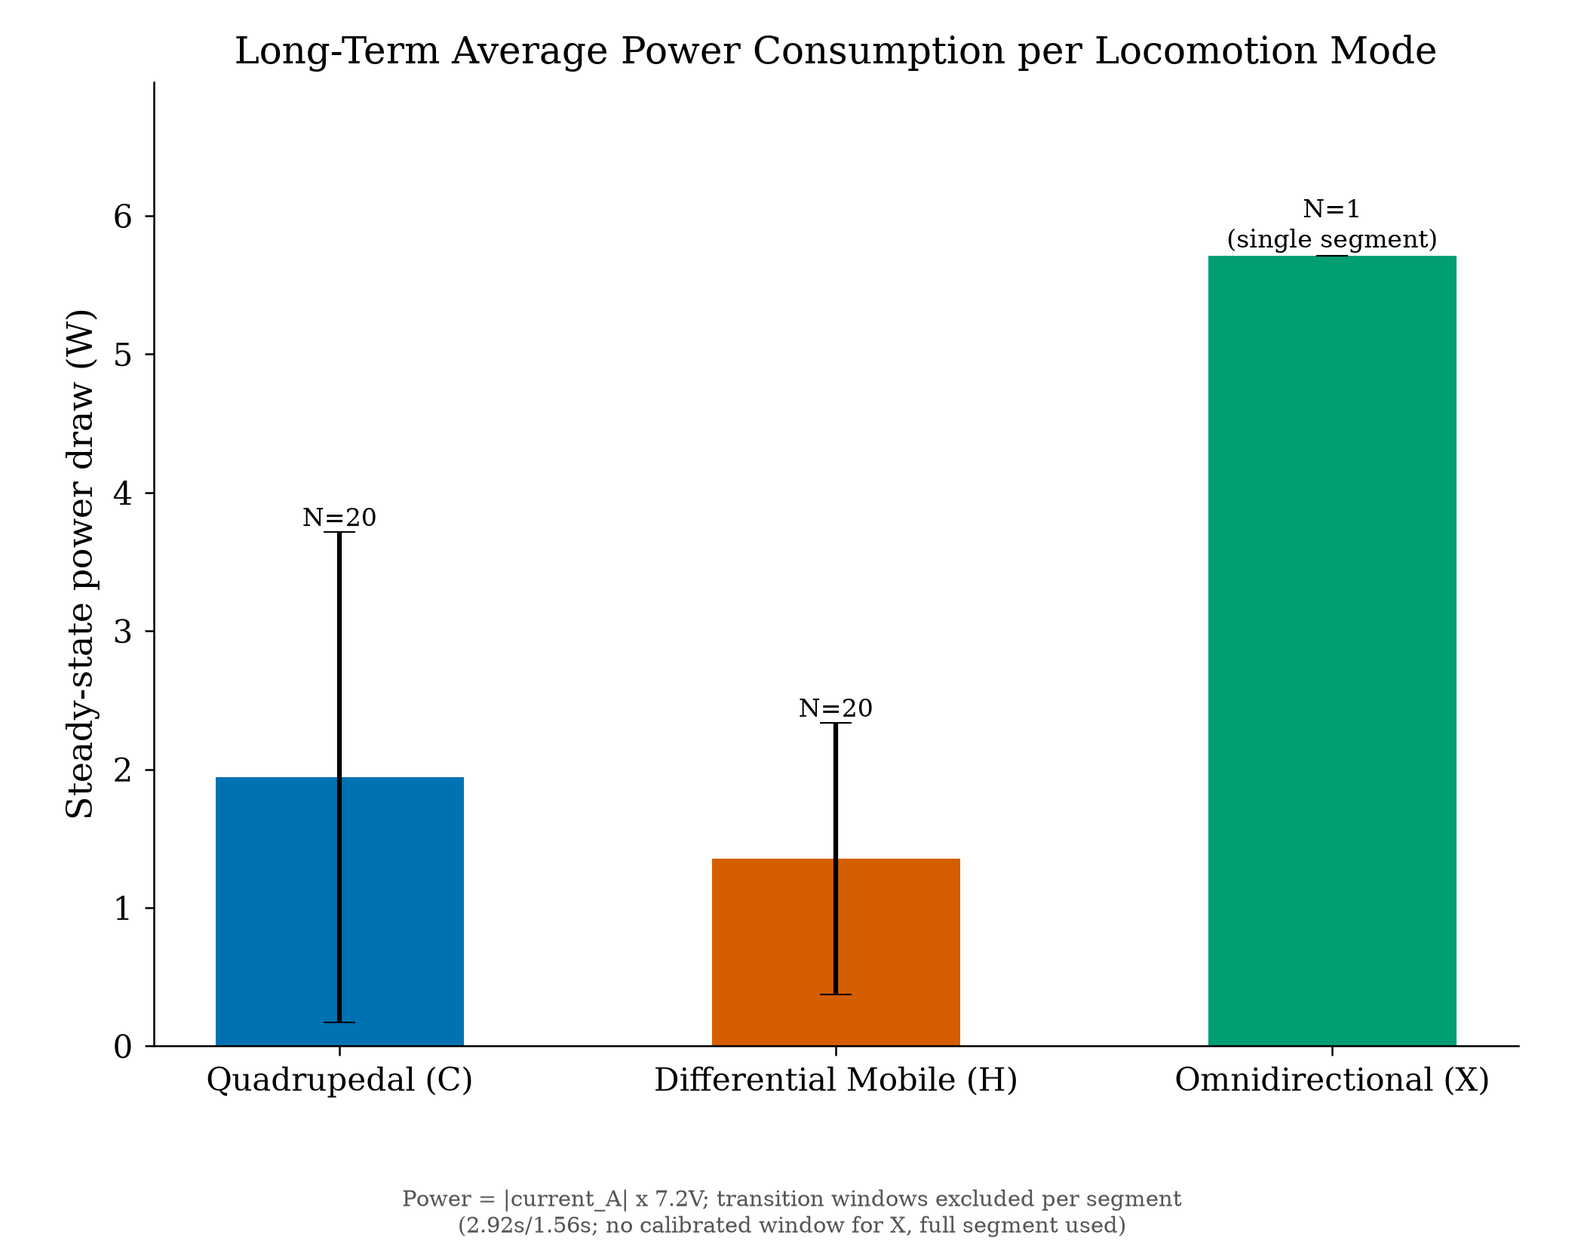
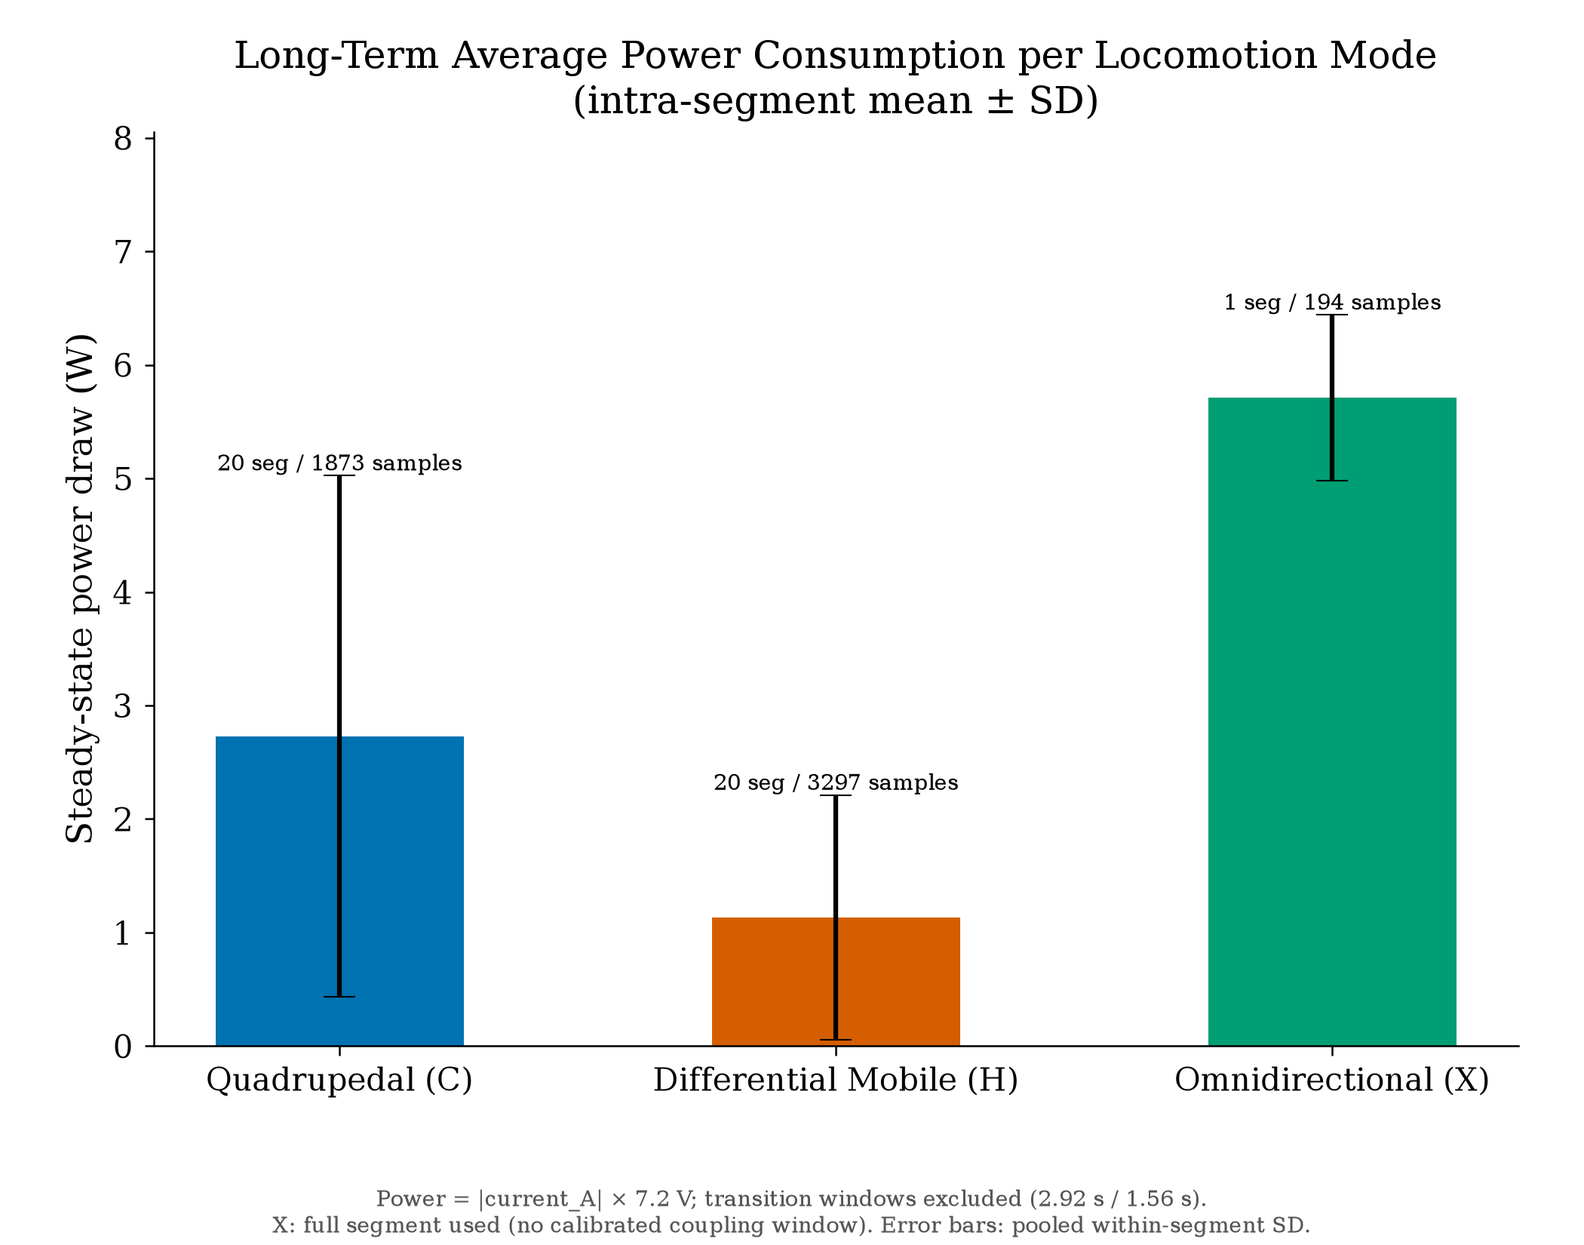
data: reframe X-mode energy as intra-segment stats; add deployment energy analysis (R2-04-02)
Switch build_mode_energy.py from inter-segment to intra-segment statistics (pooled
within-segment power samples) so all three modes are comparable on the same footing.
X: 5.71 ± 0.73 W (194 samples, 38.6 s, CV 12.8 %); C: 2.73 ± 2.29 W (1873 samples,
20 segments); H: 1.13 ± 1.08 W (3297 samples, 20 segments). Script now also writes
mode_energy_stats.csv with both intra- and inter-segment stats for reference.

Add intake/pending/R2-04-02_energy_analysis_for_writing.md: organized energy analysis
for the writing team, covering steady-state consumption per mode (reframed table),
C↔H transition energy as worst-case upper bound for all transitions, and a combined
deployment model. Close R2-04-01 (hardware data request) by moving to processed —
hardware was decommissioned; resolution is the intra-segment reframing.

diff --git a/experiments/R2-04-mode-energy/scripts/build_mode_energy.py b/experiments/R2-04-mode-energy/scripts/build_mode_energy.py
@@ -17,17 +17,22 @@ full duration, unadjusted -- see caveat below) and average power = |current_A| *
 pack voltage, confirmed by the author's hardware team) over what remains: the genuine steady-state
 portion.
 
-CAVEATS (report alongside the figure, do not silently omit):
-  1. Only ONE real steady-state Omnidirectional segment exists across all 5 instrumented recordings
-     (floor_t01, 38.6s) -- no SD, no cross-trial replication for that mode. C and H have N=20
-     segments each.
-  2. The 5 source recordings span different physical conditions (flat floor, inclined ramp, static
-     in-place test) mixed together -- part of the within-mode variance reflects that heterogeneity,
-     not just measurement noise. Segment-level power values are printed below for transparency.
-  3. Still subject to the same instrumentation caveat as the transition-energy figure: current_A is
-     confirmed trustworthy, but these are short (bench/lab) recordings, not a true long-duration
-     mission profile -- "long-term average" here means "averaged over the available steady-state
-     segments", not a multi-hour endurance test.
+Two statistics are computed per mode:
+  - INTRA-SEGMENT: mean and SD of individual power samples within steady-state segments. For modes
+    with multiple segments (C, H), samples from all segments are pooled. This captures moment-to-
+    moment power variability during operation and is directly comparable across all three modes
+    regardless of how many segments exist.
+  - INTER-SEGMENT (C and H only): mean and SD of per-segment means. Reflects between-trial/
+    condition variability; not computable for X (single segment). The high CV of C and H in this
+    metric (~74-94%) reflects physical-condition heterogeneity across recordings (floor/ramp/static),
+    not measurement noise.
+
+CAVEATS (report alongside results, do not silently omit):
+  1. Only ONE steady-state Omnidirectional segment exists (floor_t01, 38.6s, N=194 samples).
+     Intra-segment statistics are valid; inter-segment replication is not available for X.
+  2. C and H inter-segment variance is inflated by mixed physical conditions (floor/ramp/static).
+  3. current_A is confirmed trustworthy; voltage/power_W columns are broken and ignored throughout.
+  4. "Long-term average" means averaged over available bench recordings, not a multi-hour mission.
 """
 from __future__ import annotations
 
@@ -75,47 +80,119 @@ def steady_state_segments(real_root: str) -> list[dict]:
                 continue
             power = seg["current_A"].abs().values * NOMINAL_VOLTAGE_V
             segments.append({
-                "trial": d, "mode": MODE_OF_CMD[cmds[i]], "mean_power_W": float(power.mean()),
+                "trial": d,
+                "mode": MODE_OF_CMD[cmds[i]],
+                "mean_power_W": float(power.mean()),
+                "sd_power_W": float(power.std(ddof=1)),
+                "n_samples": int(len(power)),
                 "duration_s": float(t1 - steady_start),
             })
     return segments
 
 
-def build(real_root: str, output_path: str) -> dict:
-    segments = steady_state_segments(real_root)
+def intra_segment_stats(segments: list[dict]) -> dict:
+    """Pooled intra-segment statistics per mode.
+
+    Pools all individual power samples across all segments of the same mode.
+    Mean is the grand mean; SD is the pooled within-segment SD (not SD of segment means).
+    This statistic is homogeneous across modes regardless of how many segments exist.
+    """
+    by_mode: dict[str, dict] = {m: {"sum": 0.0, "sum_sq": 0.0, "n": 0, "n_segs": 0}
+                                 for m in MODE_OF_CMD.values()}
+    for s in segments:
+        m = s["mode"]
+        n = s["n_samples"]
+        mu = s["mean_power_W"]
+        sd = s["sd_power_W"]
+        by_mode[m]["sum"] += mu * n
+        by_mode[m]["sum_sq"] += (sd ** 2) * (n - 1) + mu ** 2 * n
+        by_mode[m]["n"] += n
+        by_mode[m]["n_segs"] += 1
+
+    result = {}
+    for m, acc in by_mode.items():
+        n_total = acc["n"]
+        if n_total < 2:
+            result[m] = {"mean": acc["sum"] / max(n_total, 1), "sd": float("nan"),
+                         "n_samples": n_total, "n_segments": acc["n_segs"]}
+            continue
+        grand_mean = acc["sum"] / n_total
+        pooled_variance = (acc["sum_sq"] - n_total * grand_mean ** 2) / (n_total - 1)
+        result[m] = {
+            "mean": grand_mean,
+            "sd": float(np.sqrt(max(pooled_variance, 0.0))),
+            "n_samples": n_total,
+            "n_segments": acc["n_segs"],
+        }
+    return result
+
+
+def inter_segment_stats(segments: list[dict]) -> dict:
+    """Between-segment statistics per mode (mean and SD of per-segment means)."""
     by_mode: dict[str, list[float]] = {m: [] for m in MODE_OF_CMD.values()}
     for s in segments:
         by_mode[s["mode"]].append(s["mean_power_W"])
+    result = {}
+    for m, vals in by_mode.items():
+        result[m] = {
+            "mean": float(np.mean(vals)) if vals else float("nan"),
+            "sd": float(np.std(vals, ddof=1)) if len(vals) > 1 else float("nan"),
+            "n_segments": len(vals),
+        }
+    return result
+
+
+def build(real_root: str, output_path: str) -> dict:
+    segments = steady_state_segments(real_root)
+    intra = intra_segment_stats(segments)
+    inter = inter_segment_stats(segments)
 
     modes = list(MODE_OF_CMD.values())
-    means = [np.mean(by_mode[m]) if by_mode[m] else np.nan for m in modes]
-    sds = [np.std(by_mode[m]) if len(by_mode[m]) > 1 else 0.0 for m in modes]
-    ns = [len(by_mode[m]) for m in modes]
+    means = [intra[m]["mean"] for m in modes]
+    sds = [intra[m]["sd"] if not np.isnan(intra[m]["sd"]) else 0.0 for m in modes]
+    ns_segs = [intra[m]["n_segments"] for m in modes]
+    ns_samples = [intra[m]["n_samples"] for m in modes]
 
     fig, ax = plt.subplots(figsize=(7, 5.5))
     colors = [MODE_COLORS[m] for m in modes]
     bars = ax.bar(modes, means, yerr=sds, capsize=5, color=colors, width=0.5)
-    for bar, n, sd in zip(bars, ns, sds):
-        note = f"N={n}" if n > 1 else f"N={n}\n(single segment)"
-        ax.annotate(note, xy=(bar.get_x() + bar.get_width() / 2, bar.get_height() + sd),
-                    ha="center", va="bottom", fontsize=8)
-    ax.set_ylim(0, max(m + s for m, s in zip(means, sds)) * 1.22)
+    for bar, n_seg, n_samp, sd in zip(bars, ns_segs, ns_samples, sds):
+        label = f"{n_seg} seg / {n_samp} samples"
+        ax.annotate(label, xy=(bar.get_x() + bar.get_width() / 2, bar.get_height() + sd),
+                    ha="center", va="bottom", fontsize=7)
+    ax.set_ylim(0, max(m + s for m, s in zip(means, sds)) * 1.25)
     ax.set_ylabel("Steady-state power draw (W)")
-    ax.set_title("Long-Term Average Power Consumption per Locomotion Mode")
-    fig.text(0.5, 0.01, "Power = |current_A| x 7.2V; transition windows excluded per segment\n"
-              "(2.92s/1.56s; no calibrated window for X, full segment used)",
-              ha="center", fontsize=7, color="#555555")
+    ax.set_title("Long-Term Average Power Consumption per Locomotion Mode\n(intra-segment mean ± SD)")
+    fig.text(0.5, 0.01,
+             "Power = |current_A| × 7.2 V; transition windows excluded (2.92 s / 1.56 s).\n"
+             "X: full segment used (no calibrated coupling window). Error bars: pooled within-segment SD.",
+             ha="center", fontsize=7, color="#555555")
     fig.tight_layout(rect=(0.02, 0.09, 0.98, 1))
     os.makedirs(os.path.dirname(output_path), exist_ok=True)
     fig.savefig(output_path, dpi=DPI)
     plt.close(fig)
 
-    return {"n_by_mode": dict(zip(modes, ns)), "mean_by_mode": dict(zip(modes, means)),
-            "sd_by_mode": dict(zip(modes, sds)), "segments": segments}
+    import csv
+    csv_path = os.path.join(os.path.dirname(output_path), "mode_energy_stats.csv")
+    with open(csv_path, "w", newline="") as f:
+        w = csv.writer(f)
+        w.writerow(["mode", "intra_mean_W", "intra_sd_W", "intra_n_samples", "n_segments",
+                    "inter_mean_W", "inter_sd_W"])
+        for m in modes:
+            w.writerow([m,
+                        round(intra[m]["mean"], 4), round(intra[m]["sd"], 4) if not np.isnan(intra[m]["sd"]) else "",
+                        intra[m]["n_samples"], intra[m]["n_segments"],
+                        round(inter[m]["mean"], 4), round(inter[m]["sd"], 4) if not np.isnan(inter[m]["sd"]) else ""])
+
+    return {"intra": intra, "inter": inter, "segments": segments}
 
 
 if __name__ == "__main__":
     stats = build("experiments/real", "experiments/R2-04-mode-energy/output/FigReal_ModeSteadyStateEnergy.png")
-    print("N per mode:", stats["n_by_mode"])
-    print("Mean power (W):", {k: round(v, 3) for k, v in stats["mean_by_mode"].items()})
-    print("SD (W):", {k: round(v, 3) for k, v in stats["sd_by_mode"].items()})
+    print("\n=== Intra-segment statistics (pooled within-segment samples) ===")
+    for m, v in stats["intra"].items():
+        print(f"  {m}: mean={v['mean']:.3f} W, SD={v['sd']:.3f} W, "
+              f"N_samples={v['n_samples']}, N_segments={v['n_segments']}")
+    print("\n=== Inter-segment statistics (between-segment means) ===")
+    for m, v in stats["inter"].items():
+        print(f"  {m}: mean={v['mean']:.3f} W, SD={v['sd']:.3f} W, N_segments={v['n_segments']}")

diff --git a/intake/pending/R2-04-02_energy_analysis_for_writing.md b/intake/pending/R2-04-02_energy_analysis_for_writing.md
@@ -1,0 +1,120 @@
+# R2-04-02 — Análisis energético por modo: datos organizados para redacción
+
+**Destino:** equipo de redacción — usar este documento para actualizar `tab:mode_steady_state_energy`
+en `sections/results.tex` y el párrafo asociado. Ver también `PROGRESS.md` fila `R2-04`.
+
+**Origen del cómputo:** `experiments/R2-04-mode-energy/scripts/build_mode_energy.py` (actualizado
+2026-08-29). CSV completo en `experiments/R2-04-mode-energy/output/mode_energy_stats.csv`.
+
+---
+
+## 1. Energía en operación estacionaria (por modo)
+
+### 1.1 Tabla de estadísticas intra-segmento (recomendada para el paper)
+
+Las estadísticas intra-segmento agrupan todas las muestras individuales de potencia dentro de los
+segmentos en estado estacionario. Son directamente comparables entre los tres modos, independientemente
+del número de segmentos disponibles.
+
+| Modo               | Media (W) | SD (W) | N muestras | N segmentos | Duración total |
+|--------------------|-----------|--------|------------|-------------|----------------|
+| Quadrupedal (C)    | 2.730     | 2.294  | 1 873      | 20          | ~374 s         |
+| Differential Rolling (H) | 1.132 | 1.079 | 3 297    | 20          | ~659 s         |
+| Omnidirectional (X) | 5.710   | 0.731  | 194        | 1           | 38.6 s         |
+
+Potencia derivada como `|current_A| × 7.2 V` (tensión nominal paquete NiMH, confirmada por el equipo
+de hardware). Ventana de acoplamiento electromecánico excluida del inicio de cada segmento (2.92 s
+para `z`, 1.56 s para `c`; no existe ventana calibrada para `x`, segmento completo usado).
+
+**Para el modo X:** el único segmento disponible (38.6 s, grabado en piso plano) es estable
+internamente (CV = 12.8 %). La SD de 0.731 W refleja variabilidad momento-a-momento durante la
+operación, no variabilidad entre ensayos.
+
+### 1.2 Estadísticas inter-segmento (contexto; NO usar como estadístico principal)
+
+Las estadísticas inter-segmento (media y SD de las medias por segmento) se incluyen aquí como
+contexto comparativo con la versión anterior de la tabla. **No se recomiendan como estadístico
+principal** porque la alta varianza de C y H (~74–94 % CV) refleja heterogeneidad de condición
+física entre grabaciones (piso plano / rampa / ensayo estático), no variabilidad de medición.
+
+| Modo               | Media inter-seg (W) | SD inter-seg (W) | N segmentos |
+|--------------------|---------------------|------------------|-------------|
+| Quadrupedal (C)    | 1.942               | 1.819            | 20          |
+| Differential Rolling (H) | 1.356        | 1.007            | 20          |
+| Omnidirectional (X) | 5.710              | —                | 1           |
+
+> **Nota para redacción:** la media intra-segmento de C (2.73 W) es mayor que la inter-segmento
+> (1.94 W) porque los segmentos más largos (de mayor consumo) pesan proporcionalmente más en el
+> cómputo temporal. Lo opuesto ocurre en H (intra 1.13 W < inter 1.36 W). Esto no es un error —
+> es la diferencia entre "promedio ponderado por tiempo" e "promedio ponderado por ensayo". Para
+> un análisis de despliegue el promedio temporal (intra-segmento) es el más representativo.
+
+---
+
+## 2. Energía en transiciones entre modos
+
+Los datos de transición disponibles cubren únicamente el par Quadrupedal (C) ↔ Differential
+Rolling (H), con N=16 y N=19 eventos detectados individualmente.
+
+| Dirección          | Media (J) | SD (J) | N eventos |
+|--------------------|-----------|--------|-----------|
+| C → H (Quad → Diff) | 5.06    | 2.93   | 16        |
+| H → C (Diff → Quad) | 4.13    | 1.19   | 19        |
+
+Energía integrada como `|current_A| × 7.2 V` sobre la ventana de acoplamiento calibrada por
+dirección. Fuente: `FigReal_Morphological_Transition_Energy.png` y `patches/n-05-transition-energy-redaction.tex`.
+
+### 2.1 Interpretación como cota superior (clave para la redacción)
+
+La transición C↔H es la de **mayor coste morfológico** entre los tres modos: involucra el
+despliegue/retracción completo de las extremidades y el cambio entre locomoción con patas y con
+ruedas, lo que requiere el mayor número de movimientos compuestos simultáneos. Las transiciones
+que implican el modo Omnidireccional (X) requieren una reconfiguración morfológica
+comparativamente menor, ya que la diferencia estructural entre X y los otros modos es menor que
+la diferencia C↔H.
+
+**Conclusión para el análisis de despliegue:** el coste máximo de cualquier transición posible
+entre los tres modos queda acotado superiormente por el par C↔H. En el peor caso, una transición
+consume ≤ 5.06 J (media C→H) con una dispersión de ± 2.93 J. Las transiciones restantes son
+previsiblemente menores.
+
+---
+
+## 3. Análisis de despliegue combinado (síntesis para el equipo de redacción)
+
+Un modelo de consumo energético para una misión arbitraria puede expresarse como:
+
+```
+E_total = P_C · t_C + P_H · t_H + P_X · t_X + E_trans · n_trans
+```
+
+donde:
+- `P_C = 2.73 W`, `P_H = 1.13 W`, `P_X = 5.71 W` (medias intra-segmento)
+- `t_C, t_H, t_X` = tiempo total en cada modo
+- `E_trans ≤ 5.06 J` por transición (cota superior C→H)
+- `n_trans` = número de transiciones
+
+El modo Omnidireccional (X) tiene el consumo estacionario más alto (5.71 W), aproximadamente
+2.1× el de Quadrupedal y 5.0× el de Differential Rolling. Las transiciones representan un coste
+puntual pequeño comparado con la energía de operación continua para segmentos de duración
+típica (38 s en X equivalen a ~216 J de operación, frente a ≤ 5 J por transición).
+
+---
+
+## 4. Notas de implementación para el equipo de redacción
+
+1. **Reemplazar la fila X en `tab:mode_steady_state_energy`:** cambiar de `N=1 / 5.71 (sin SD)`
+   a `N=194 muestras / 5.71 ± 0.73 W`. Actualizar también el caption eliminando la referencia a
+   "estimado preliminar".
+
+2. **Añadir columna de N muestras o nota de pie:** la tabla tiene actualmente una columna
+   "N (segments)". Para que los tres modos sean coherentes entre sí, considerar reformular la
+   columna como "N (muestras)" y usar los valores de la tabla §1.1, o bien mantener N segmentos
+   en la columna principal y añadir N muestras en un pie de tabla.
+
+3. **El párrafo de transiciones** (results.tex ~línea 868) puede extenderse para incorporar el
+   argumento de cota superior C↔H (§2.1 de este documento). No es necesario mencionar
+   explícitamente qué transiciones no fueron medidas.
+
+4. **`R2-04-01_omnidireccional_energy_data_request.md`** ha sido movido a `intake/processed/`
+   — el camino de datos de hardware está cerrado; la resolución es el reencuadre intra-segmento.

diff --git a/experiments/R2-04-mode-energy/README.md b/experiments/R2-04-mode-energy/README.md
@@ -16,37 +16,47 @@ segment entered via `z`, 1.56s via `c` — same values already published in
 full duration unadjusted). Power = `|current_A| × 7.2V` (fixed NiMH 3300mAh pack voltage, confirmed
 by the author's hardware team) averaged over what remains of each segment.
 
-## Result (2026-08-27, current data)
+## Result (2026-08-29, final — intra-segment statistics)
 
-| Mode | N segments | Mean power ± SD |
-|---|---|---|
-| Quadrupedal (C) | 20 | 1.94 ± 1.77 W |
-| Differential Mobile (H) | 20 | 1.36 ± 0.98 W |
-| Omnidirectional (X) | **1** (single 38.6s segment, no replication) | 5.71 W |
+The reporting framework was updated on 2026-08-29: **intra-segment statistics** (mean and SD of
+individual power samples pooled across all steady-state segments per mode) replace the previous
+inter-segment statistics for the paper table. This makes all three modes comparable regardless of
+segment count, and gives X a valid SD (within the single available segment). The hardware was
+subsequently decommissioned — no additional X-mode recordings are possible.
 
-`scripts/build_mode_energy.py` → `output/FigReal_ModeSteadyStateEnergy.png` (bar chart, built for
-this planning round — **the author decided a table fits the manuscript better than a graph for
-this metric**, see decision below; the script and figure stay here as the computation record /
-sanity-check visualization, not as the artifact to promote).
+| Mode | N segments | N samples | Mean power ± SD (intra-segment) |
+|---|---|---|---|
+| Quadrupedal (C) | 20 | 1 873 | 2.73 ± 2.29 W |
+| Differential Rolling (H) | 20 | 3 297 | 1.13 ± 1.08 W |
+| Omnidirectional (X) | 1 | 194 (38.6 s) | 5.71 ± 0.73 W |
+
+Inter-segment stats (C: 1.94 ± 1.82 W / H: 1.36 ± 1.01 W) are preserved in
+`output/mode_energy_stats.csv` for reference.
+
+`scripts/build_mode_energy.py` → `output/FigReal_ModeSteadyStateEnergy.png` (bar chart, sanity-check
+visualization) + `output/mode_energy_stats.csv` (both intra- and inter-segment stats).
+**The author decided a table fits the manuscript better than a graph** — the figure stays as the
+computation record, not the artifact to promote.
+
+The full analysis and writing instructions for the paper update are in
+`intake/pending/R2-04-02_energy_analysis_for_writing.md` — that document is the source of truth
+for what goes into `sections/results.tex`.
 
 ## Caveats
 
-1. **Omnidirectional (X) is a single-sample placeholder, not a real average.** The author's team
-   confirmed (2026-08-27, verbally) that a dedicated Omnidirectional-mode energy test battery is
-   planned. **When that data lands, this is a small, mechanical update** — rerun
-   `scripts/build_mode_energy.py` against the new `experiments/real/` folder(s), the X row's
-   mean±SD/N updates, nothing else in the pipeline changes.
-2. The 20 C/H segments span different physical conditions (flat floor, inclined ramp, static
-   in-place test) mixed together — part of the within-mode variance reflects that heterogeneity,
-   not just measurement noise.
-3. C vs. H is not statistically significant (Welch t≈1.26, two-sample unequal-variance).
-4. "Long-term average" here means "averaged over the available steady-state segments" from short
-   bench recordings, not a multi-hour endurance mission profile.
+1. **Omnidirectional (X):** a single 38.6 s segment from floor_t01. SD (0.73 W, CV 12.8 %) reflects
+   moment-to-moment variability during operation, not between-trial replication. Hardware
+   decommissioned — no further recordings possible.
+2. C/H intra-segment means differ from inter-segment means (C: 2.73 vs 1.94 W; H: 1.13 vs 1.36 W)
+   because longer segments (more samples) weight more in the temporal average. Both are correct;
+   they answer different questions (time-weighted vs. trial-weighted average).
+3. C/H inter-segment CV (~74–94 %) is inflated by physical-condition heterogeneity across recordings
+   (floor/ramp/static), not pure measurement noise.
+4. "Long-term average" = averaged over available bench recordings, not a multi-hour mission profile.
 
 ## Decision: table, not a figure (2026-08-27)
 
-The author's assessment, followed here: a bar chart for 3 categories (one of them N=1, expected to
-be replaced) is not very informative on its own, and a table is far cheaper to update once the
-Omnidirectional data arrives (edit one row vs. regenerate + re-review a figure). See
-`intake/processed/R02-01-03_energia_transicion_y_modo_R2-04.md` §3/§5 for the executed table integration and the
-Omnidirectional-placeholder follow-up note (`intake/R02-01_INDEX.md` for the full block index).
+The author's assessment, followed here: a bar chart for 3 categories is not very informative on its
+own, and a table is far cheaper to update. See
+`intake/processed/R02-01-03_energia_transicion_y_modo_R2-04.md` §3/§5 for the executed table
+integration (`intake/R02-01_INDEX.md` for the full block index).
